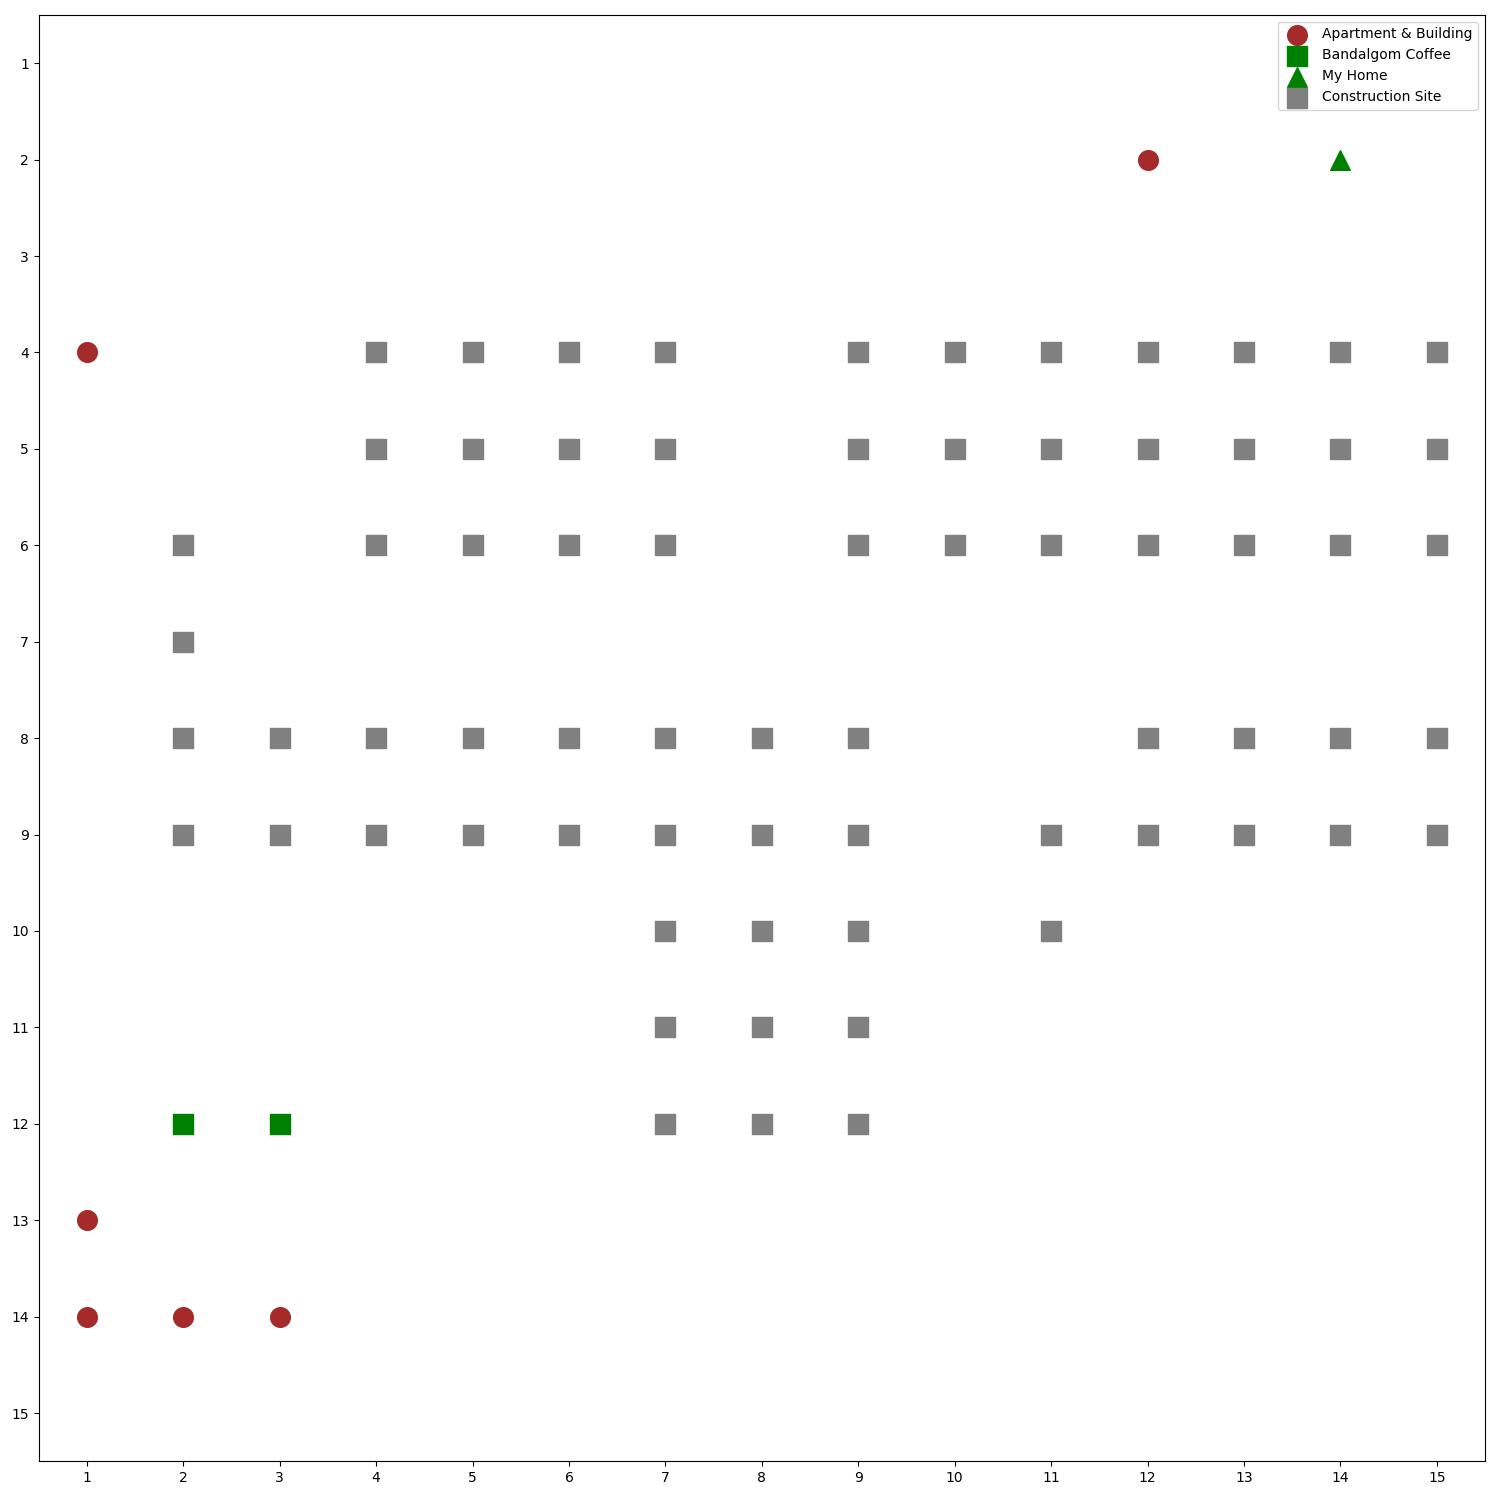
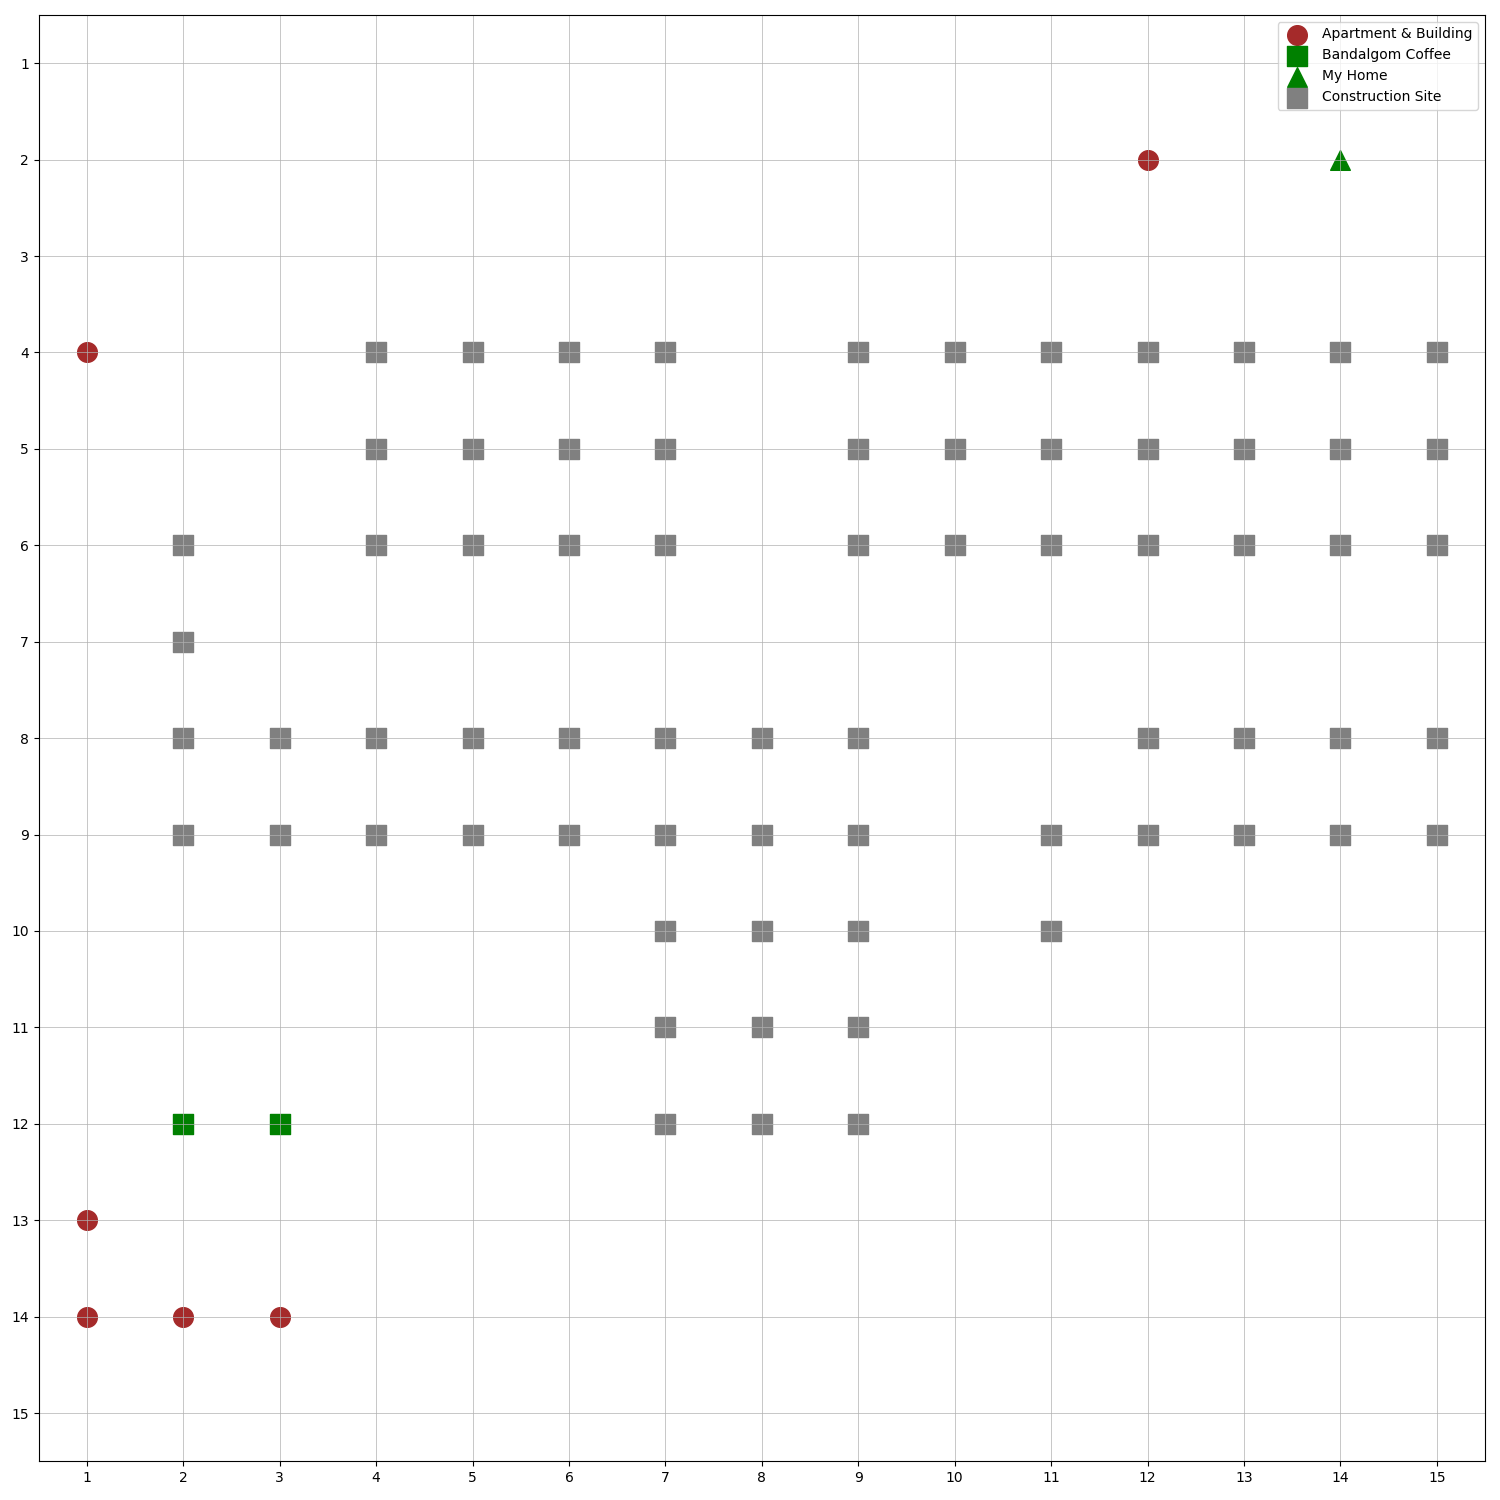
Add(문제3): first upload

diff --git a/map_direct_save.py b/map_direct_save.py
@@ -1,0 +1,121 @@
+import matplotlib.pyplot as plt
+import pandas as pd
+
+data = pd.read_pickle('merged.pkl')
+
+max_x = max(data['x'])
+max_y = max(data['y'])
+
+fig, ax = plt.subplots(figsize=(max_x, max_y))
+
+ax.set_xticks(range(1, max_x + 1))
+ax.set_yticks(range(1, max_y + 1))
+ax.grid(True, which='both', linestyle='-', linewidth=0.5)
+
+ax.set_xlim(left=0.5, right=max_x + 0.5)
+ax.set_ylim(bottom=0.5, top=max_y + 0.5)
+
+ax.invert_yaxis()
+ax.set_aspect('equal', adjustable='box')
+
+buildings = data[(data['struct'] == 'Apartment') | (data['struct'] == 'Building')]
+bandalgoms = data[data['struct'] == 'BandalgomCoffee']
+my_home = data[data['struct'] == 'MyHome']
+construction_sites = data[data['ConstructionSite'] == 1]
+const_sites = set(zip(construction_sites['x'], construction_sites['y']))
+
+
+def bfs(df, start, destination, max_loc, const_sites):
+    visited = set()
+    queue = list()
+
+    queue.append((start, [start]))
+    visited.add(start)
+
+    max_x, max_y = max_loc
+
+    while queue:
+        (x, y), route = queue.pop(0)
+
+        if (x, y) in destination:
+            return route
+
+        for dx, dy in [(+1, 0), (-1, 0), (0, +1), (0, -1)]:
+            nx, ny = x + dx, y + dy
+            neighbor = (nx, ny)
+
+            if (
+                1 <= nx <= max_x
+                and 1 <= ny <= max_y
+                and neighbor not in visited
+                and neighbor not in const_sites
+            ):
+                visited.add(neighbor)
+                queue.append((neighbor, route + [neighbor]))
+
+    return None
+
+
+my_home = data[data['struct'] == 'MyHome'].iloc[0]
+start = my_home['x'], my_home['y']
+max_loc = max(data['x']), max(data['y'])
+
+bandalgoms = data[data['struct'] == 'BandalgomCoffee']
+destinations = set()
+for _, row in bandalgoms.iterrows():
+    destinations.add((row['x'], row['y']))
+route = bfs(
+    df=data,
+    start=start,
+    destination=destinations,
+    max_loc=max_loc,
+    const_sites=const_sites,
+)
+
+# 좌표를 그래프에 표시
+ax.scatter(
+    x=buildings['x'],
+    y=buildings['y'],
+    s=200,
+    c='brown',
+    marker='o',
+    label='Apartment & Building',
+)
+
+ax.scatter(
+    x=bandalgoms['x'],
+    y=bandalgoms['y'],
+    s=200,
+    c='green',
+    marker='s',
+    label='Bandalgom Coffee',
+)
+
+ax.scatter(
+    x=my_home['x'],
+    y=my_home['y'],
+    s=200,
+    c='green',
+    marker='^',
+    label='My Home',
+)
+
+
+ax.scatter(
+    x=construction_sites['x'],
+    y=construction_sites['y'],
+    s=200,
+    c='grey',
+    marker='s',
+    label='Construction Site',
+)
+
+if route is not None:
+    route_x, route_y = zip(*route)
+    plt.plot(route_x, route_y, color='red', linewidth=3, label='route')
+
+ax.legend()
+plt.tight_layout()
+plt.savefig('map_final.png')
+
+plt.show()
